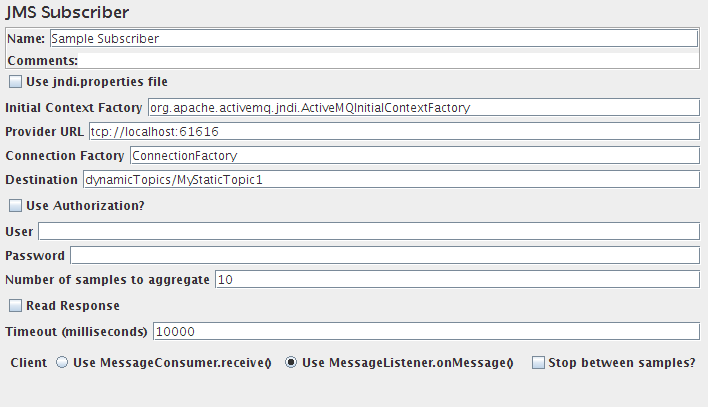
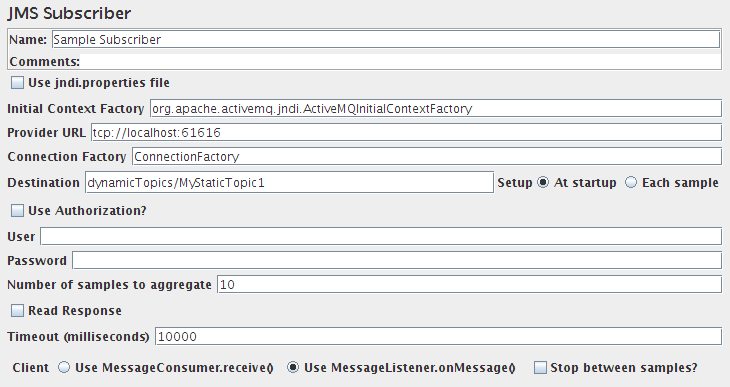
JMS Subscriber - Add dynamic destination
git-svn-id: https://svn.apache.org/repos/asf/jakarta/jmeter/trunk@1037357 13f79535-47bb-0310-9956-ffa450edef68

Former-commit-id: c1d7c4f4437523237fba04f15b9deb09272d28e9

Changed region(s): [[0.0, 0.0, 0.9944, 0.9612], [0.9633, 0.8062, 0.9944, 0.8372]]

diff --git a/src/protocol/jms/org/apache/jmeter/protocol/jms/sampler/SubscriberSampler.java b/src/protocol/jms/org/apache/jmeter/protocol/jms/sampler/SubscriberSampler.java
@@ -78,7 +78,8 @@ public class SubscriberSampler extends BaseJMSSampler implements Interruptible, 
     private static final String TIMEOUT = "jms.timeout"; // $NON-NLS-1$
     private static final String TIMEOUT_DEFAULT = "";
     private static final String STOP_BETWEEN = "jms.stop_between_samples"; // $NON-NLS-1$
-
+    
+    private transient boolean START_ON_SAMPLE = false;
 
     public SubscriberSampler() {
     }
@@ -118,6 +119,10 @@ public class SubscriberSampler extends BaseJMSSampler implements Interruptible, 
     // TODO - should we call start() and stop()?
     @Override
     public SampleResult sample() {
+        // run threadStarted only if Destination setup on each sample
+        if (!isDestinationStatic()) {
+            threadStarted(true);
+        }
         SampleResult result = new SampleResult();
         result.setDataType(SampleResult.TEXT);
         result.setSampleLabel(getName());
@@ -188,6 +193,10 @@ public class SubscriberSampler extends BaseJMSSampler implements Interruptible, 
                 log.warn("Problem stopping subscriber", e);
             }
         }
+        // run threadFinished only if Destination setup on each sample (stop Listen queue)
+        if (!isDestinationStatic()) {
+            threadFinished(true);
+        }
         return result;
     }
 
@@ -238,37 +247,47 @@ public class SubscriberSampler extends BaseJMSSampler implements Interruptible, 
      * {@inheritDoc}
      */
     public void threadStarted() {
-        timeout = getTimeoutAsLong();
-        interrupted = false;
-        exceptionDuringInit = null;
-        useReceive = getClientChoice().equals(JMSSubscriberGui.RECEIVE_RSC);
-        stopBetweenSamples = isStopBetweenSamples();
-        if (useReceive) {
-            try {
-                initReceiveClient();
-                if (!stopBetweenSamples){ // Don't start yet if stop between samples
-                    SUBSCRIBER.start();
+        // Disabled thread start if listen on sample choice
+        if (isDestinationStatic() || START_ON_SAMPLE) {
+            timeout = getTimeoutAsLong();
+            interrupted = false;
+            exceptionDuringInit = null;
+            useReceive = getClientChoice().equals(JMSSubscriberGui.RECEIVE_RSC);
+            stopBetweenSamples = isStopBetweenSamples();
+            if (useReceive) {
+                try {
+                    initReceiveClient();
+                    if (!stopBetweenSamples){ // Don't start yet if stop between samples
+                        SUBSCRIBER.start();
+                    }
+                } catch (NamingException e) {
+                    exceptionDuringInit = e;
+                } catch (JMSException e) {
+                    exceptionDuringInit = e;
                 }
-            } catch (NamingException e) {
-                exceptionDuringInit = e;
-            } catch (JMSException e) {
-                exceptionDuringInit = e;
+            } else {
+                try {
+                    initListenerClient();
+                    if (!stopBetweenSamples){ // Don't start yet if stop between samples
+                        SUBSCRIBER.start();
+                    }
+                } catch (JMSException e) {
+                    exceptionDuringInit = e;
+                } catch (NamingException e) {
+                    exceptionDuringInit = e;
+                }
             }
-        } else {
-            try {
-                initListenerClient();
-                if (!stopBetweenSamples){ // Don't start yet if stop between samples
-                    SUBSCRIBER.start();
-                }
-            } catch (JMSException e) {
-                exceptionDuringInit = e;
-            } catch (NamingException e) {
-                exceptionDuringInit = e;
+            if (exceptionDuringInit != null){
+                log.error("Could not initialise client",exceptionDuringInit);
             }
         }
-        if (exceptionDuringInit != null){
-            log.error("Could not initialise client",exceptionDuringInit);
+    }
+    
+    public void threadStarted(boolean wts) {
+        if (wts) {
+            START_ON_SAMPLE = true; // listen on sample 
         }
+        threadStarted();
     }
 
     /**
@@ -280,6 +299,13 @@ public class SubscriberSampler extends BaseJMSSampler implements Interruptible, 
         if (SUBSCRIBER != null){ // Can be null if init fails
             SUBSCRIBER.close();
         }
+    }
+    
+    public void threadFinished(boolean wts) {
+        if (wts) {
+            START_ON_SAMPLE = false; // listen on sample
+        }
+        threadFinished();
     }
 
     /**

diff --git a/src/protocol/jms/org/apache/jmeter/protocol/jms/control/gui/JMSSubscriberGui.java b/src/protocol/jms/org/apache/jmeter/protocol/jms/control/gui/JMSSubscriberGui.java
@@ -21,6 +21,7 @@ package org.apache.jmeter.protocol.jms.control.gui;
 import java.awt.BorderLayout;
 
 import javax.naming.Context;
+import javax.swing.BoxLayout;
 import javax.swing.JCheckBox;
 import javax.swing.JPanel;
 import javax.swing.event.ChangeEvent;
@@ -91,6 +92,16 @@ public class JMSSubscriberGui extends AbstractSamplerGui implements ChangeListen
     private final JCheckBox stopBetweenSamples =
         new JCheckBox(JMeterUtils.getResString("jms_stop_between_samples"), true); // $NON-NLS-1$
     
+    // These are the names of properties used to define the labels
+    private final static String DEST_SETUP_STATIC = "jms_dest_setup_static"; // $NON-NLS-1$
+
+    private final static String DEST_SETUP_DYNAMIC = "jms_dest_setup_dynamic"; // $NON-NLS-1$
+    // Button group resources
+    private final static String[] DEST_SETUP_ITEMS = { DEST_SETUP_STATIC, DEST_SETUP_DYNAMIC };
+
+    private final JLabeledRadioI18N destSetup =
+        new JLabeledRadioI18N("jms_dest_setup", DEST_SETUP_ITEMS, DEST_SETUP_STATIC); // $NON-NLS-1$
+    
     public JMSSubscriberGui() {
         init();
     }
@@ -129,6 +140,7 @@ public class JMSSubscriberGui extends AbstractSamplerGui implements ChangeListen
         sampler.setClientChoice(clientChoice.getText());
         sampler.setStopBetweenSamples(stopBetweenSamples.isSelected());
         sampler.setTimeout(timeout.getText());
+        sampler.setDestinationStatic(destSetup.getText().equals(DEST_SETUP_STATIC));
     }
 
     /**
@@ -151,7 +163,7 @@ public class JMSSubscriberGui extends AbstractSamplerGui implements ChangeListen
         mainPanel.add(jndiICF);
         mainPanel.add(urlField);
         mainPanel.add(jndiConnFac);
-        mainPanel.add(jmsDestination);
+        mainPanel.add(createDestinationPane());
         mainPanel.add(useAuth);
         mainPanel.add(jmsUser);
         mainPanel.add(jmsPwd);
@@ -189,6 +201,7 @@ public class JMSSubscriberGui extends AbstractSamplerGui implements ChangeListen
         clientChoice.setText(sampler.getClientChoice());
         stopBetweenSamples.setSelected(sampler.isStopBetweenSamples());
         timeout.setText(sampler.getTimeout());
+        destSetup.setText(sampler.isDestinationStatic() ? DEST_SETUP_STATIC : DEST_SETUP_DYNAMIC);
     }
 
     @Override
@@ -207,6 +220,7 @@ public class JMSSubscriberGui extends AbstractSamplerGui implements ChangeListen
         readResponse.setSelected(true);
         clientChoice.setText(RECEIVE_RSC);
         stopBetweenSamples.setSelected(false);
+        destSetup.setText(DEST_SETUP_STATIC);
     }
 
     /**
@@ -221,5 +235,13 @@ public class JMSSubscriberGui extends AbstractSamplerGui implements ChangeListen
             jmsUser.setEnabled(!useAuth.isSelected());
             jmsPwd.setEnabled(!useAuth.isSelected());
         }
+    }
+    
+    private JPanel createDestinationPane() {
+        JPanel pane = new JPanel(new BorderLayout(3, 0));
+        pane.add(jmsDestination, BorderLayout.CENTER);
+        destSetup.setLayout(new BoxLayout(destSetup, BoxLayout.X_AXIS));
+        pane.add(destSetup, BorderLayout.EAST);
+        return pane;
     }
 }
